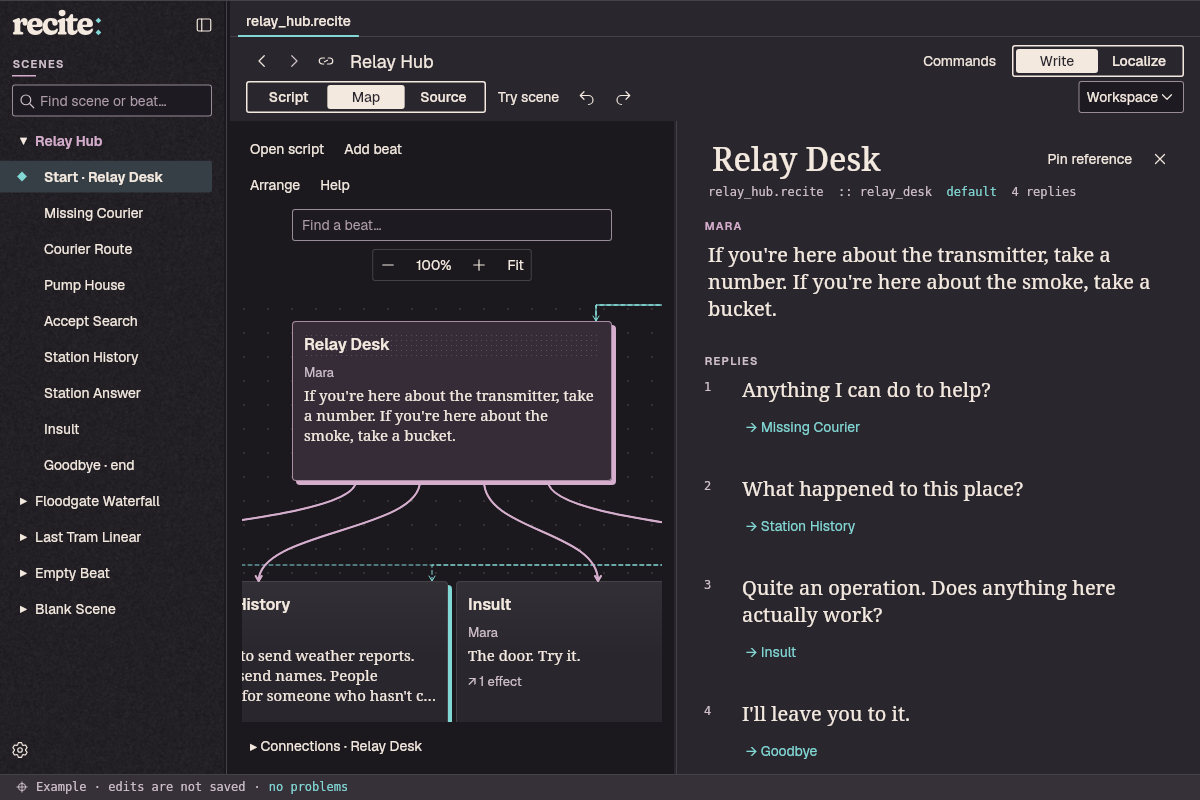
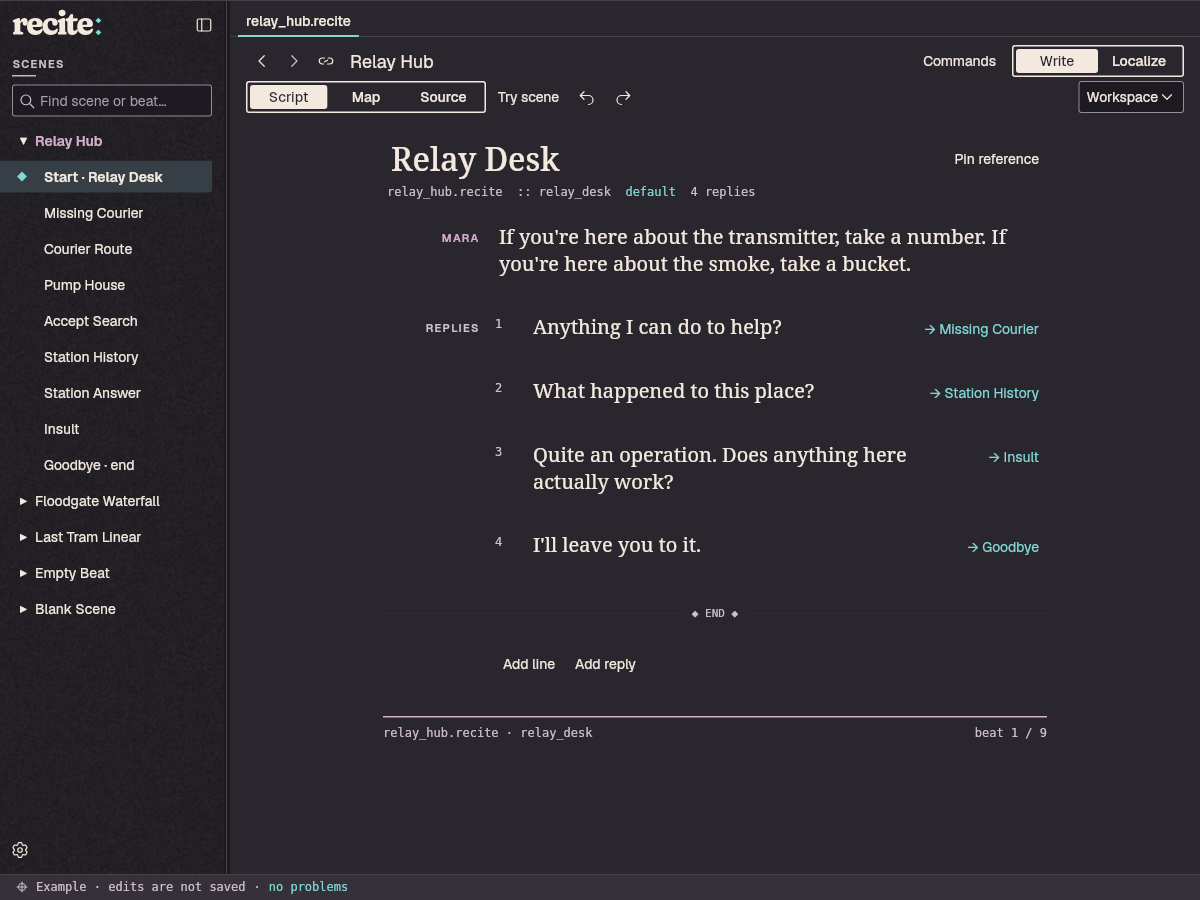
[REC-257] docs: show the full writing view in README previews

diff --git a/README.md b/README.md
@@ -17,7 +17,7 @@ tool I've always wished I had when working on dialogue-heavy games.
   >
   <img
     src="docs/assets/recite-scene.png"
-    alt="Relay Hub in Writer: the scene outline, branching map and a beat open for writing, with Mara's greeting and four replies."
+    alt="Relay Hub in Writer: the scene outline and full Script view, with Mara's greeting and four replies open for writing."
   >
 </picture>
 
